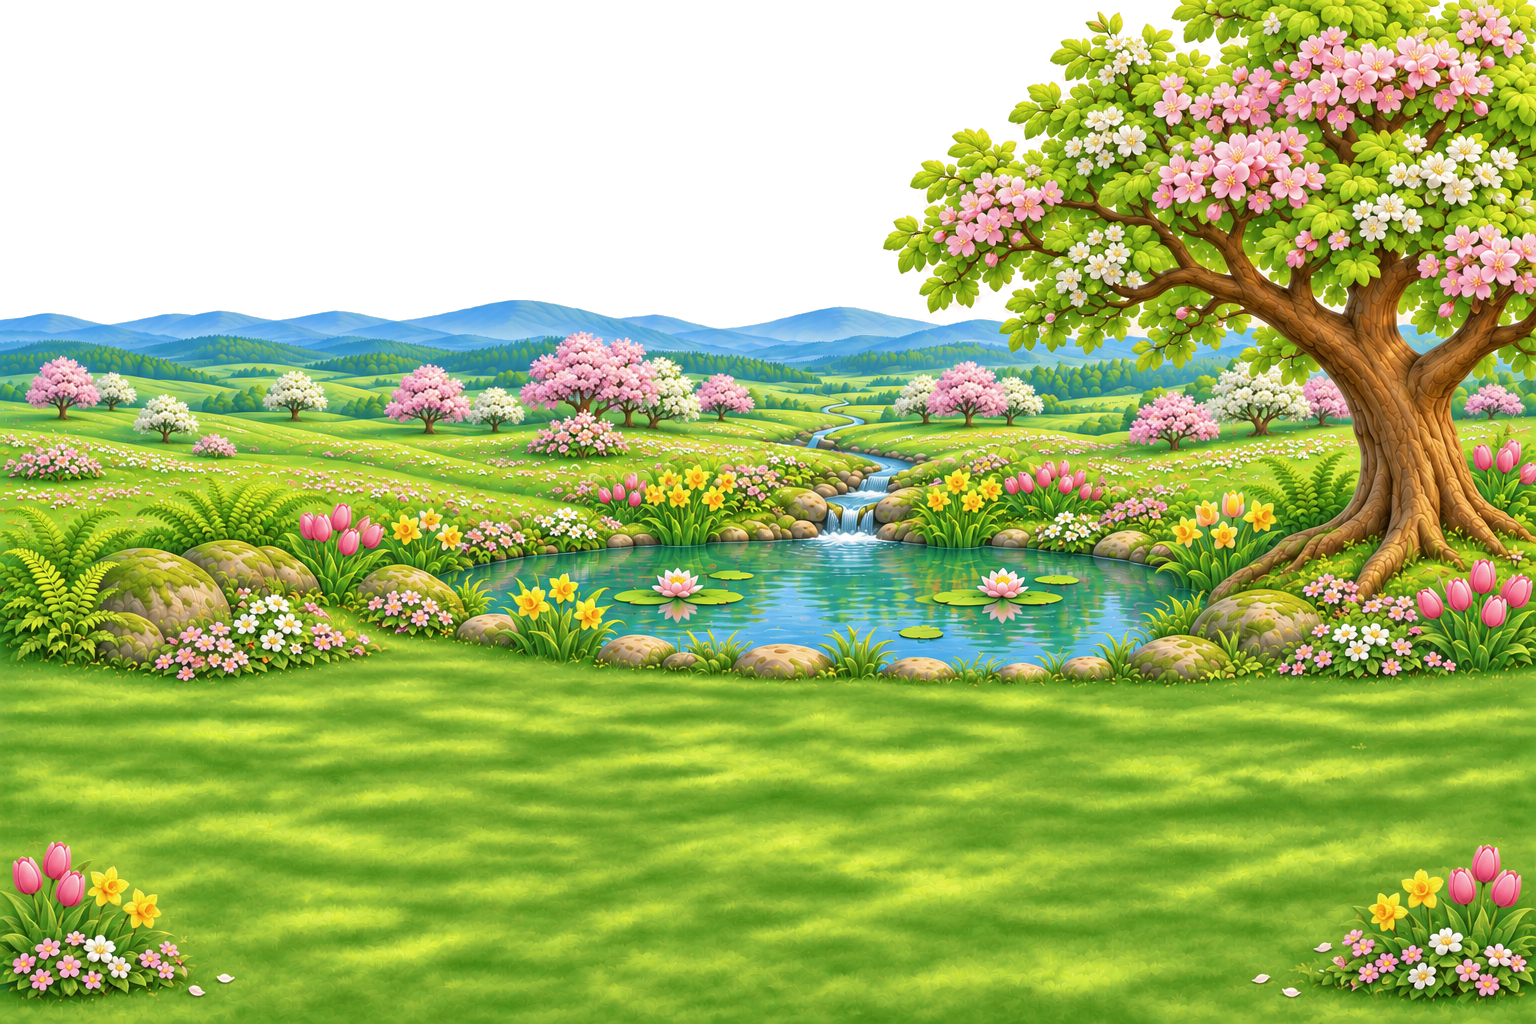
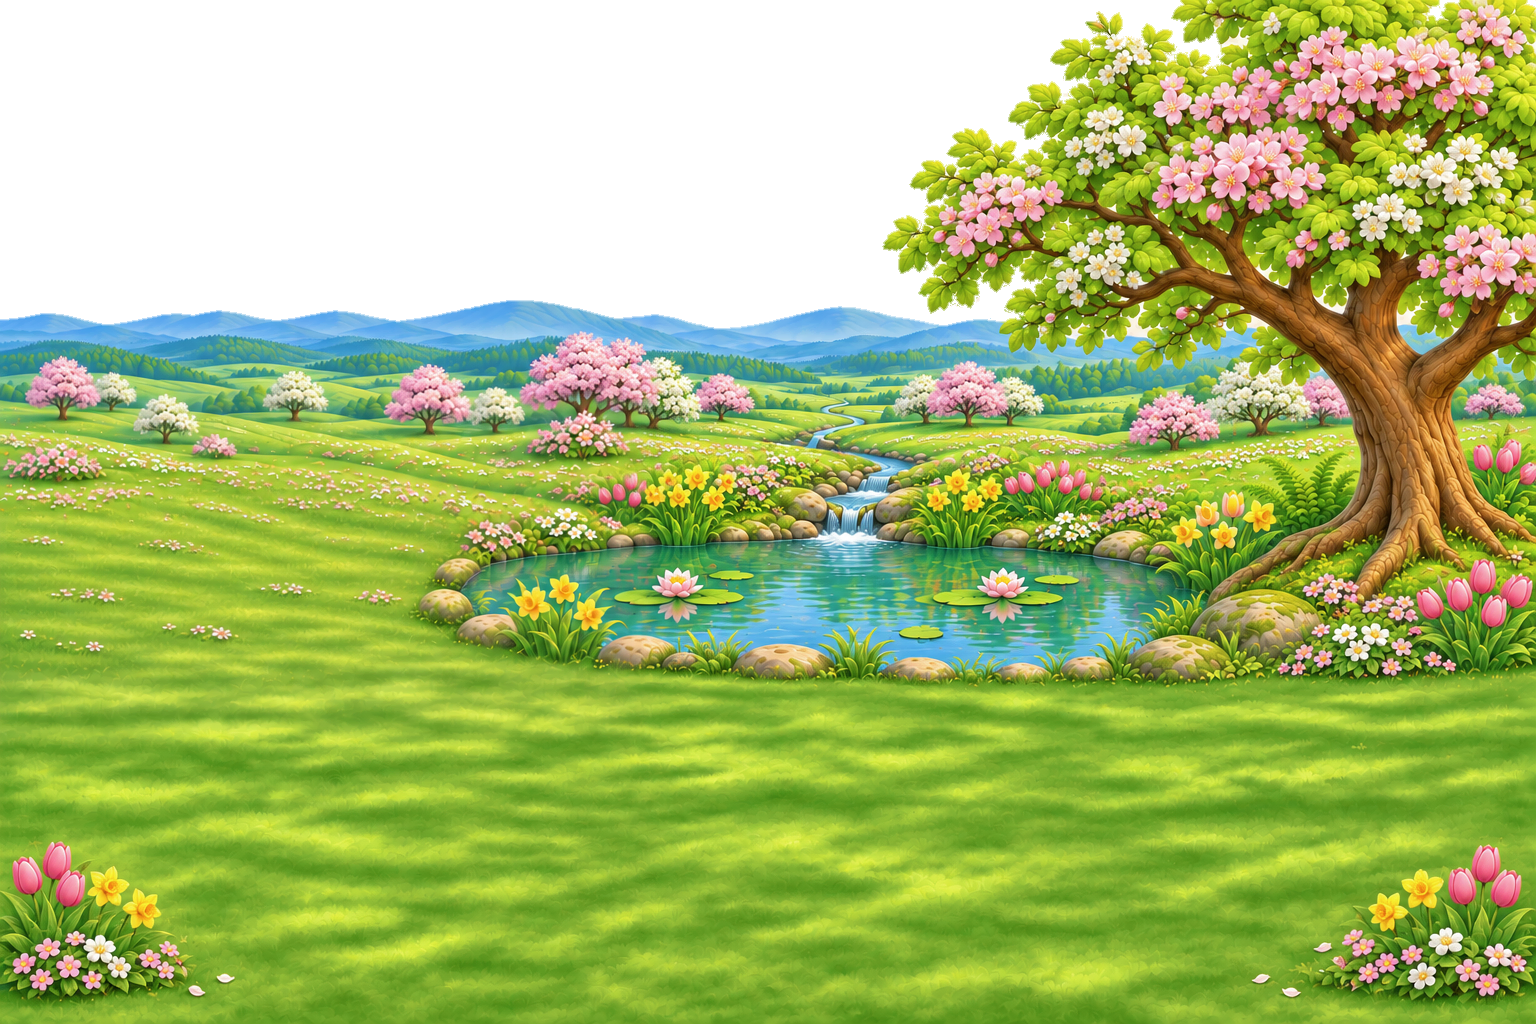
Outdoor pictures meet the sky in a smooth edge with no pale ring
What changed
- scripts/soften-sky-edges.mjs (helpers in sky-edge-lib.mjs) rewrites an outdoor picture in place:
  - the two pixels next to the sky take the colour of the land just inside them, and their alpha rises over a pixel and a half;
  - without --keep-white, paper-white patches no lower than 4 px under the sky (the cut's ring, gaps between leaves) become sky.
- All 12 outdoor pictures ran through it; spring and winter with --keep-white, since snow and blossom are the same white.
- The Wild garden's four pictures first had their left side opened back to the meadow: a Codex image edit blended in through a soft mask, the rest the original's pixels.
- WebP exports, previews and webp.json follow; provenance, the environments README history and the scripts README record it.

Why
- The cut was all or nothing and kept a ring of the white the pictures were painted on, so treetops and hills showed a light, stepped outline over the app's sky.
- The ferns and boulders left of the Wild garden's pond walled the lawn off from the meadow.

How it was checked
- tests/sky-edge.test.mjs: distances, paper cleared but a white flower kept, a soft edge in the land's colour.
- Zoomed before/after crops of every picture over a sky colour: no fringe, blossoms and snow intact, no seam at the blend.
- node --test of the WebP record tests passes.

diff --git a/assets/art/environments/FOUR-PLACES-PROVENANCE.md b/assets/art/environments/FOUR-PLACES-PROVENANCE.md
@@ -125,3 +125,32 @@
[3 lines of base64/hex data omitted]
+
+## Follow-up: soft sky edges and an open meadow (2026-11-21)
+
+- Every outdoor picture's line against the sky was rough: the cut kept a pale ring of the white it was painted on, and its pixels were all or nothing.
+- `scripts/soften-sky-edges.mjs` (`scripts/sky-edge-lib.mjs`) cleaned the line in place:
+  - the band next to the sky took the colour of the land just inside it, and its alpha rose over a pixel and a half;
+  - near-white patches no lower than 4 px under the sky (the ring, gaps between leaves) became sky, in the summer and autumn pictures only. Snow and blossom are the same white, so spring and winter ran with `--keep-white`.
+- The land inside and the clear sky kept every sample.
+- The Wild garden's left side was opened so friends can walk back to the meadow:
+  - Codex's image tool edited each season's picture with one brief: remove the band of ferns, boulders and tall flowers left of the pond, and paint open lawn rising into the meadow.
+  - The edit was blended into the original through a soft mask: full left of x 600 between y 420 and 700, fading over 80 px across the water and 60 px above and below. Everything else is the original's pixels.
+  - Its pond's left stones stay where they were.
+- The field follows it: the courtyard's `geometry.edge` rises to 0.48 on the left, and `geometry.far` and `depthFar` shrink a friend by its height on the screen.
+- SHA-256 of the 12 runtime PNGs now:
+
+| Runtime file | SHA-256 |
+| --- | --- |
[12 lines of base64/hex data omitted]

diff --git a/scripts/README.md b/scripts/README.md
@@ -34,6 +34,7 @@
 | Companion action packing | `companions:pack -- plan.json output.png`, source `pack-companion-actions.py` | Bounded action atlases from approved RGBA art, with 192 × 208 cells by default; requires Pillow, honors `PLAYPETS_PYTHON`, rejects clipped frames and preserves shared scale and foot anchors |
 | Album artwork | `art:pack`: `pack-collection.mjs`, `pack-discovery.mjs`, then `art-webp.mjs` | One command after adding or changing a drawing the album shows: the wrappers, the trimmed sheets and their shipped WebP and previews. Packing again with nothing new changes nothing. To make a new sheet smaller, run `assets:optimize <sheet>` and `art:pack` again |
 | Discovery artwork | `node scripts/pack-discovery.mjs`, source records in `assets/discovery/` | Tracked tree, keepsake and shovel PNG atlases in `assets/art/` and clipped SVG viewports in `src/art/trees/` and `src/art/discovery/`; keepsake sheets lose the cells no drawing cuts (`sheet-trim-lib.mjs`, used by `pack-collection.mjs` too) |
+| Outdoor sky edges | `node scripts/soften-sky-edges.mjs [--keep-white] <picture.png> ...`, helpers in `sky-edge-lib.mjs` | The places' outdoor PNGs in `assets/art/environments/`, rewritten in place: an antialiased line against the sky with no pale ring; without `--keep-white`, paper-white patches along the sky cleared too (not for snow or blossom). Run `assets:webp` after |
 | Shipped art | `art-webp.mjs`, `art-webp-lib.mjs` via `assets:webp`; `--check` needs no encoder | Near-lossless WebP in `src/art/` from the PNG exports in `assets/art/`, each sample checked against the PNG, 400-pixel previews of the places' daylight backdrops for the place gallery, and a crop at twice its card size of each drawing the album shows, in `src/art/album/`; hashes in `assets/art/webp.json`. Lossless WebP of the built-in friends' sheets in `src-tauri/pets/<id>/`, with a `pet.json` naming them, for each friend `src-tauri/src/pets/builtin.rs` lists; every pixel checked against the PNG in `assets/pets/`; hashes in `assets/pets/webp.json` |
 
 ### Companion action plans

diff --git a/assets/art/environments/README.md b/assets/art/environments/README.md
@@ -27,6 +27,8 @@
 - The seasons share one lawn and land tone, so a season change does not jump in color.
 - No rain or snow is painted in.
 - The field's top follows the picture: `geometry.fieldTop`, raised where `geometry.edge` traces ground reaching back.
+- Where the lawn reaches far back, `geometry.far` (a share of the picture's height) and `geometry.depthFar` scale a friend by its height on the screen, alike at every x.
+- The line against the sky is antialiased, with no pale ring. A picture changed by hand runs through `node scripts/soften-sky-edges.mjs` again, with `--keep-white` for snow or blossom.
 - The pond people click is `geometry.lake`, an ellipse in picture fractions. `yard/environment.js` (`environmentLake`) applies the picture's crop to it.
 - The pictures keep their proportions with a floor-anchored cover crop (`environmentFrame`), shared with the pond, the fishing stance and the festival lights.
 - Night tint uses alpha compositing, so darkness does not depend on Canvas filter support.
@@ -60,5 +62,6 @@
 | 2026-10-13 | Four places: hillside garden, stone courtyard, lakeside and village study ([provenance](FOUR-PLACES-PROVENANCE.md)) |
 | 2026-11-12 | Agent workspaces: a sunny office and the garden workshop. The office was dropped and the workshop replaced the village study (living room) |
 | 2026-11-13 | New outdoor set; the stone courtyard became the Wild garden. The previous outdoor pictures and the retired studio and office sources were removed from the repository; Git history keeps them |
+| 2026-11-21 | Soft sky edges on every outdoor picture (`scripts/soften-sky-edges.mjs`); the Wild garden's left side opened back to the meadow ([provenance](FOUR-PLACES-PROVENANCE.md)) |
 
 - Only `assets/sources/environments/studio-cozy-day.png` remains of the retired rooms: `scripts/creator-skill.mjs` copies it as the creator kit's interior example.
